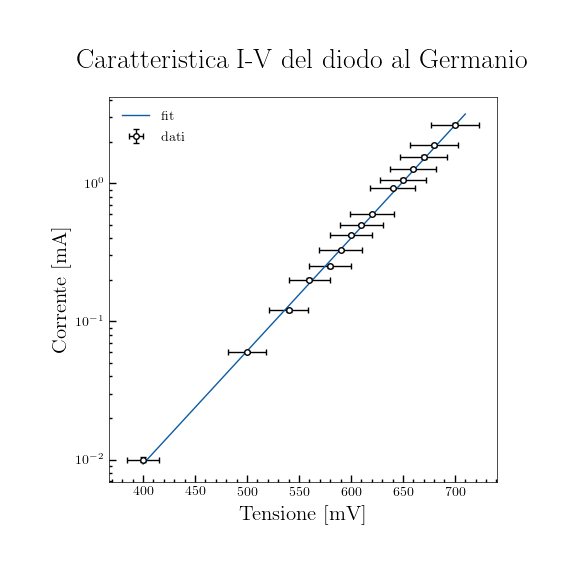
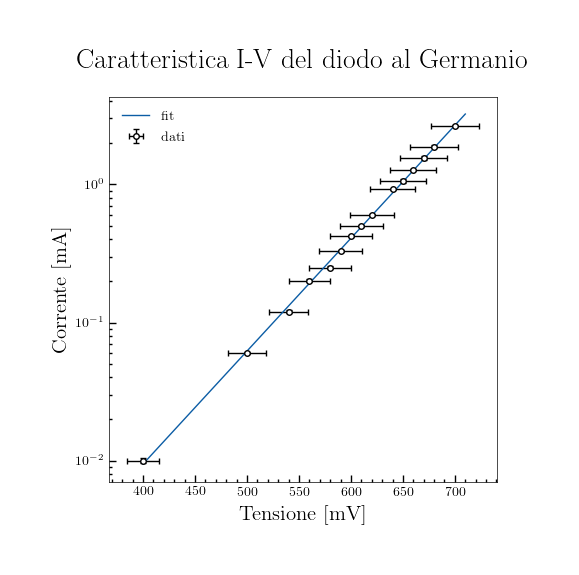
default

diff --git a/prima_prova/germanio/germanio.py b/prima_prova/germanio/germanio.py
@@ -30,7 +30,7 @@ I0=exp(-a/b)
 print('I0 = ',I0)
 
 x=numpy.linspace(400,710,100)
-pyplot.plot(x,I0*numpy.exp((x-1)/b), label = 'fit') 
+pyplot.plot(x,I0*(numpy.exp(x/b)-1), label = 'fit') 
 
 # Dato che V = -clnI0+clnI abbiamo che V=cln(I/I0), I/I0 = e^(V/c-1)
 

diff --git a/prima_prova/silicio/silicio.py b/prima_prova/silicio/silicio.py
@@ -28,7 +28,7 @@ I0=exp(-a/b)
 print('I0 = ',I0)
 
 x=numpy.linspace(50,350,100)
-pyplot.plot(x,I0*numpy.exp((x-1)/b),label = 'fit') 
+pyplot.plot(x,I0*(numpy.exp(x/b)-1),label = 'fit') 
 
 # Dato che V = -clnI0+clnI abbiamo che V=cln(I/I0), I/I0 = e^(V/c-1)
 
